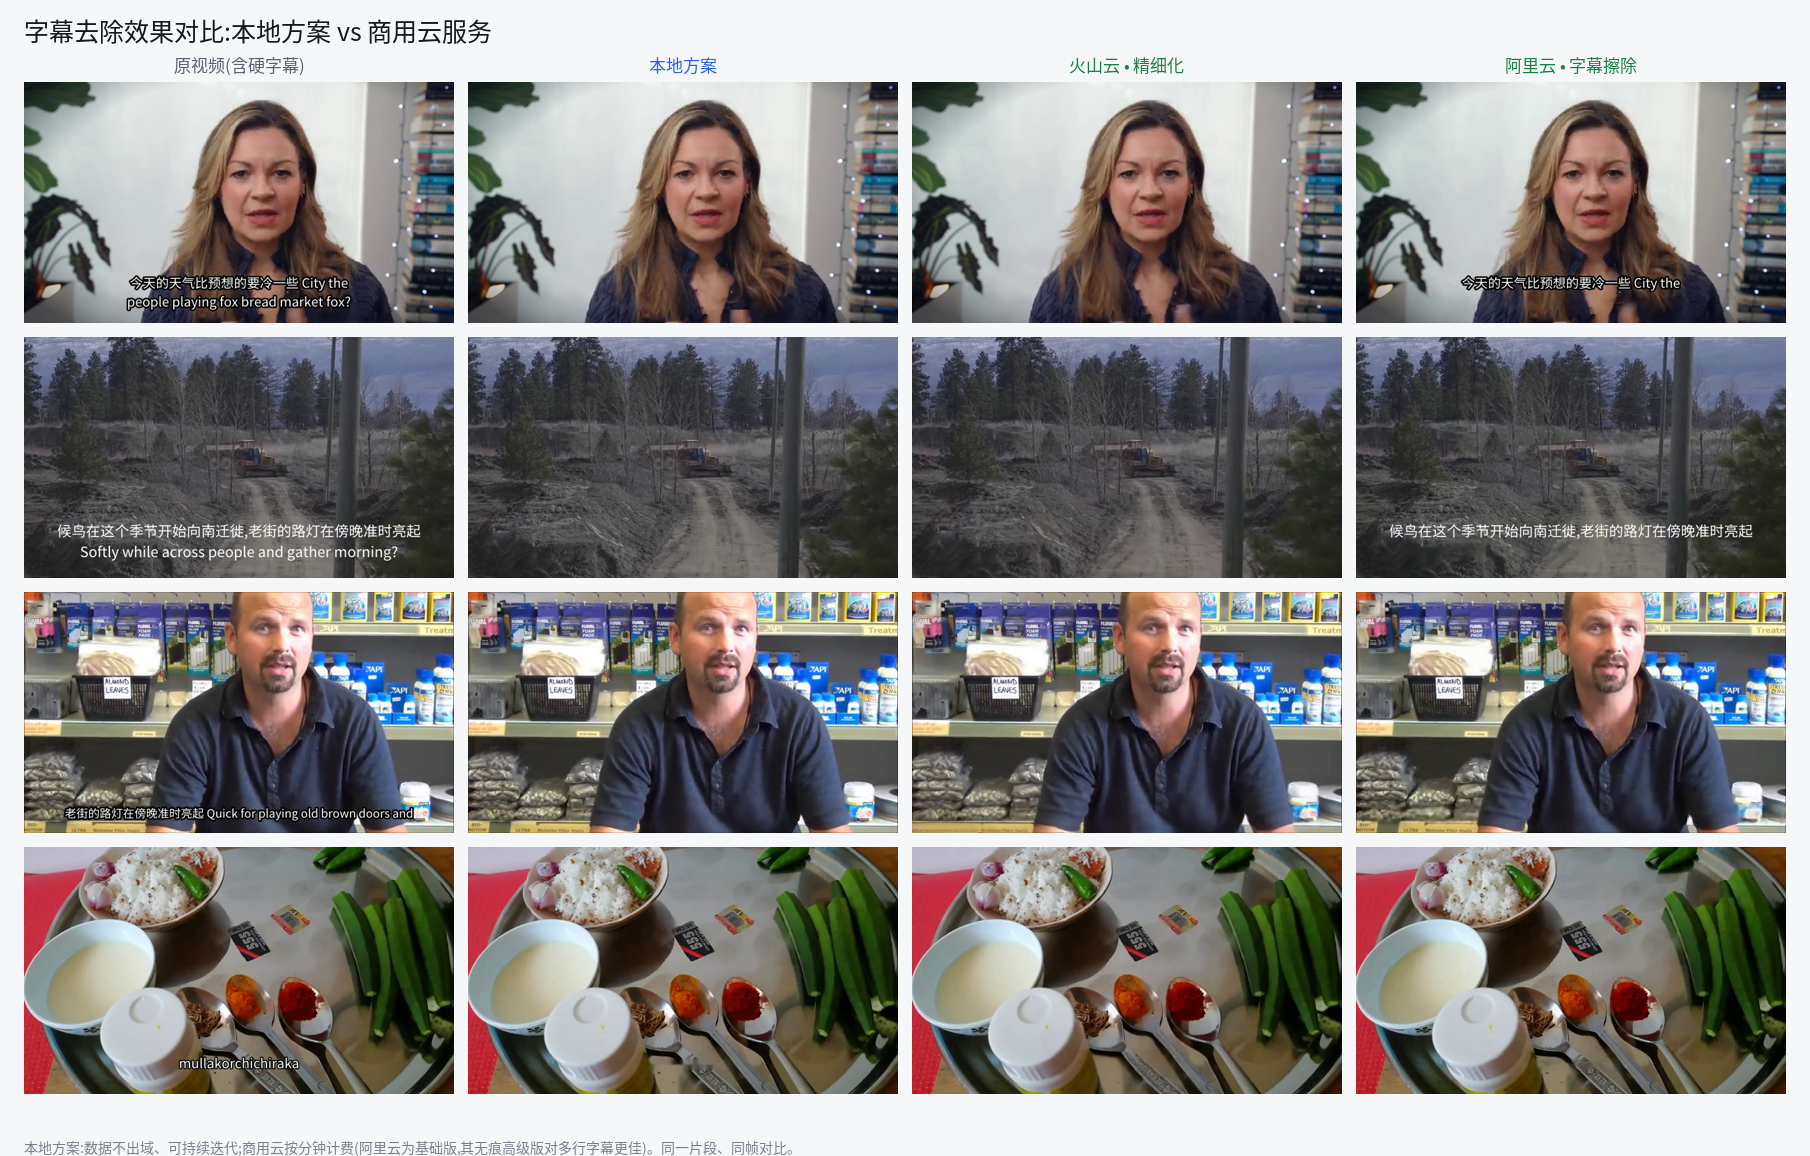
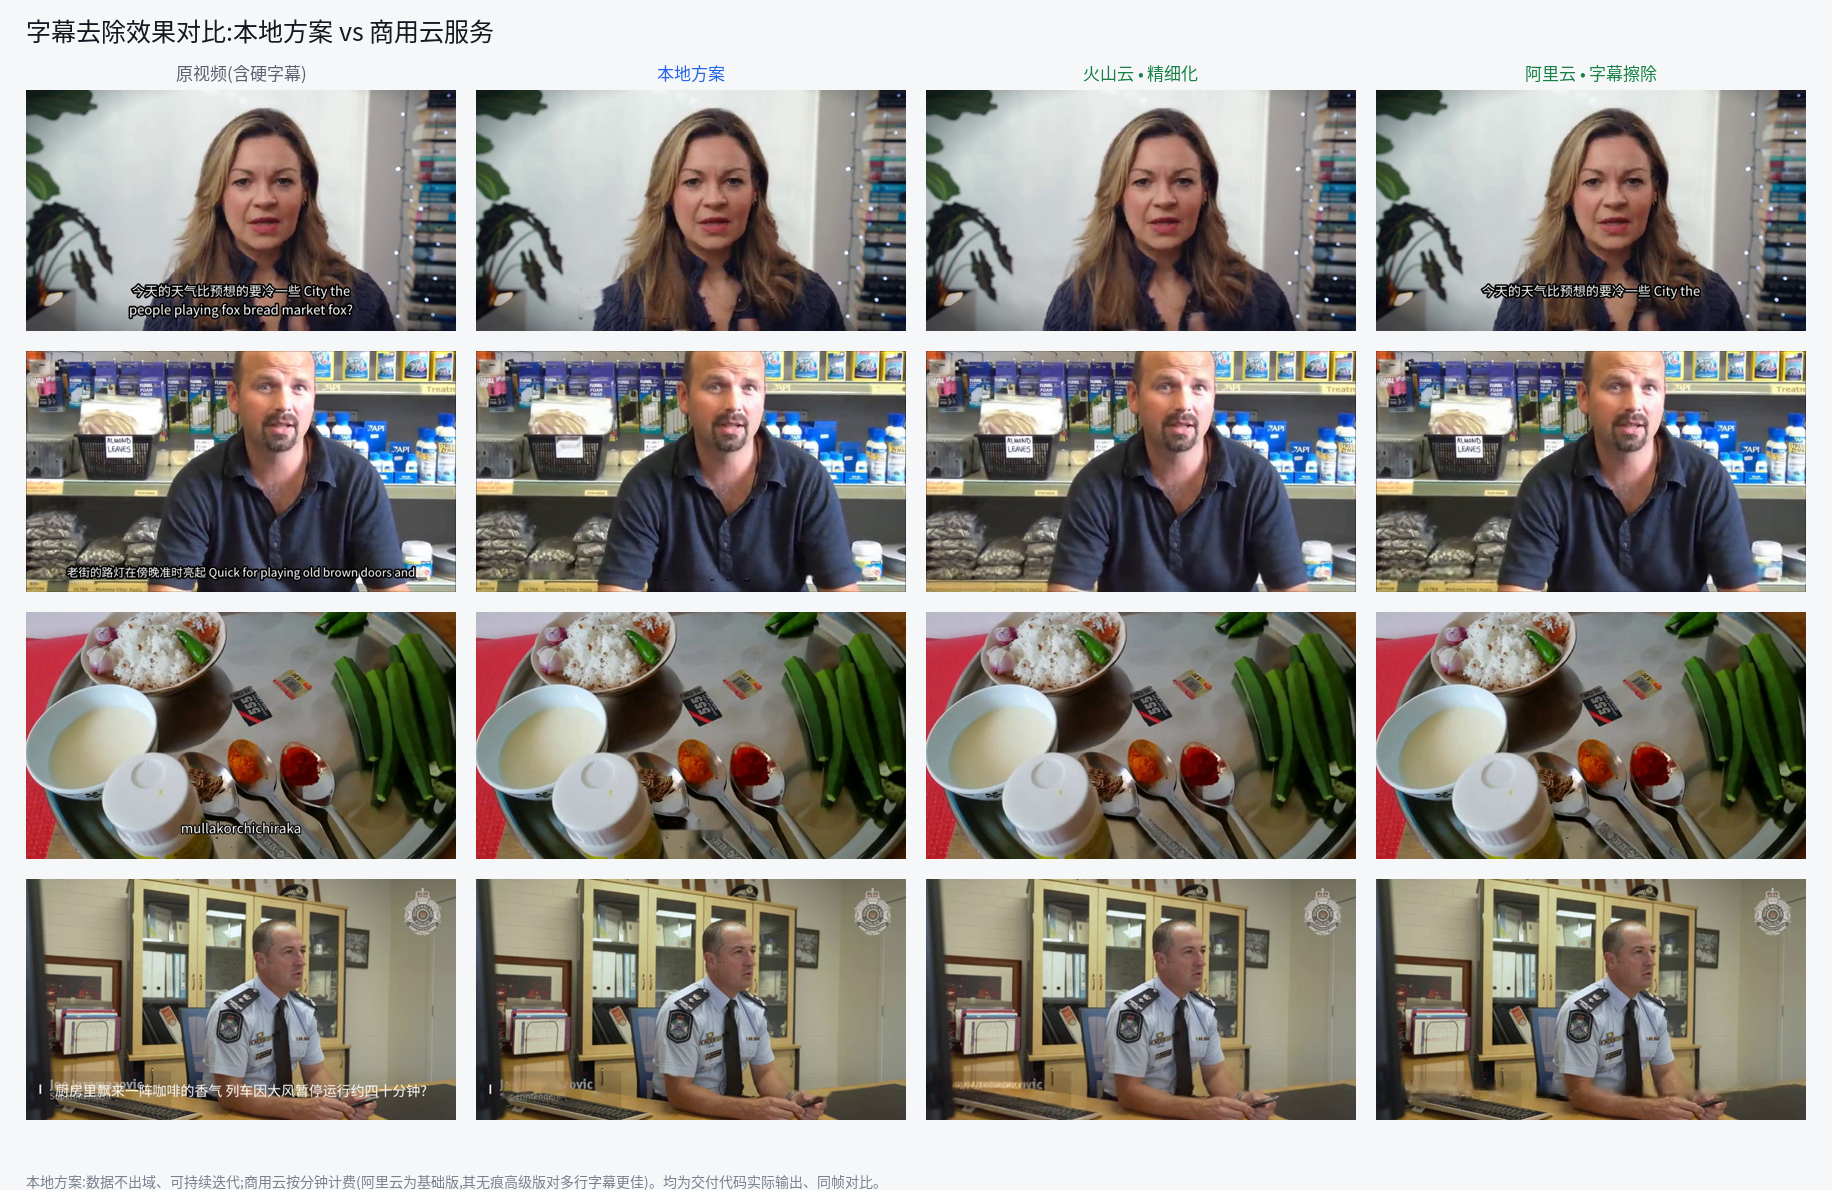
release: 提字幕笔画掩码(实际输出即干净)+ 效果图改用真实端到端输出 + 文档注明 --detector paddle

diff --git a/subtitle_eraser/events.py b/subtitle_eraser/events.py
@@ -113,6 +113,29 @@ def build_mask(roi_shape_hw: tuple[int, int], bbox_in_roi: tuple[int, int, int, 
     return cv2.dilate(mask, kernel)
 
 
+def stroke_mask_in_box(frame_bgr: np.ndarray, bbox: tuple[int, int, int, int],
+                       min_thresh: int = 165, k: int = 9) -> np.ndarray:
+    """在检测框内提取字幕**笔画**掩码(而非整框):框内亮像素阈值 → 闭运算连通 →
+    膨胀盖住描边/抗锯齿。擦除只填笔画邻域,面积远小于整框,避免把框内背景一起糊掉。
+    亮文字(白字/描边字)适用;框内无亮文字时返回空掩码(该帧不改动)。"""
+    h, w = frame_bgr.shape[:2]
+    x1, y1, x2, y2 = bbox
+    x1, y1, x2, y2 = max(0, x1), max(0, y1), min(w, x2), min(h, y2)
+    m = np.zeros((h, w), dtype=np.uint8)
+    if x2 - x1 < 3 or y2 - y1 < 3:
+        return m
+    roi = frame_bgr[y1:y2, x1:x2]
+    g = cv2.cvtColor(roi, cv2.COLOR_BGR2GRAY) if roi.ndim == 3 else roi
+    th = max(min_thresh, int(g.mean() + 0.8 * g.std()))
+    s = (g > th).astype(np.uint8) * 255
+    rect = cv2.getStructuringElement(cv2.MORPH_RECT, (k, k))
+    ell = cv2.getStructuringElement(cv2.MORPH_ELLIPSE, (k, k))
+    s = cv2.morphologyEx(s, cv2.MORPH_CLOSE, rect)
+    s = cv2.dilate(s, ell, iterations=2)
+    m[y1:y2, x1:x2] = s
+    return m
+
+
 def feather_paste(frame: np.ndarray, roi: tuple[int, int, int, int],
                   repaired_roi: np.ndarray, mask_roi: np.ndarray,
                   feather_px: int = 5) -> None:

diff --git a/subtitle_eraser/pipeline.py b/subtitle_eraser/pipeline.py
@@ -17,7 +17,8 @@ import numpy as np
 from . import probe
 from .backends import get_backend
 from .detect import make_detector
-from .events import aggregate, build_mask, expand_bbox, feather_paste
+from .events import (aggregate, build_mask, expand_bbox, feather_paste,
+                     stroke_mask_in_box)
 from .ffmpeg_tools import ffmpeg_bin, run as ffrun
 from .mux import FrameSink
 from .report import Report
@@ -102,7 +103,7 @@ def run(cfg: Config) -> Report:
                        e.bbox[2] - x1, e.bbox[3] - y1)
         mask = build_mask((roi[3] - roi[1], roi[2] - roi[0]), bbox_in_roi)
         ev_ctx.append({"ev": e, "roi": roi, "mask": mask,
-                       "buf": [], "buf_idx": []})
+                       "bbox_in_roi": bbox_in_roi, "buf": [], "buf_idx": []})
 
     covered: dict[int, int] = defaultdict(int)   # 帧号 → 尚未完成修复的事件数
     for c in ev_ctx:
@@ -117,9 +118,13 @@ def run(cfg: Config) -> Report:
     def flush(c: dict) -> None:
         if not c["buf"]:
             return
-        repaired = backend.erase_segment(c["buf"], [c["mask"]] * len(c["buf"]))
-        for fi, patch in zip(c["buf_idx"], repaired):
-            feather_paste(pending[fi], c["roi"], patch, c["mask"])
+        # 逐帧在检测框内提字幕**笔画**掩码(而非整框),擦除只填笔画邻域,避免糊整块;
+        # 某帧框内提不到亮文字则回退整框掩码,保证不漏擦。
+        smasks = [stroke_mask_in_box(f, c["bbox_in_roi"]) for f in c["buf"]]
+        smasks = [sm if int((sm > 127).sum()) >= 20 else c["mask"] for sm in smasks]
+        repaired = backend.erase_segment(c["buf"], smasks)
+        for fi, patch, sm in zip(c["buf_idx"], repaired, smasks):
+            feather_paste(pending[fi], c["roi"], patch, sm)
             covered[fi] -= 1
         c["buf"], c["buf_idx"] = [], []
 

diff --git a/技术手册.md b/技术手册.md
@@ -15,12 +15,17 @@
 ## 2. 快速开始
 
 ```bash
-pip install -r requirements.txt          # 仅需 numpy + opencv
-python -m subtitle_eraser --input in.mp4 --output out.mp4
-# 默认:--detector fixed --region bottom:0.35 --backend flow-copy
+pip install -r requirements.txt              # 骨架:numpy + opencv
+pip install paddlepaddle paddleocr           # 推荐:PP-OCRv5 字幕检测(即上方效果)
+python -m subtitle_eraser --input in.mp4 --output out.mp4 --detector paddle
 ```
 
 运行结束会打印处理模式与字幕事件数,并在输出旁生成 `out.report.json`。
+
+- **`--detector paddle`(推荐)**:PP-OCRv5 精确定位字幕 → 只擦字幕笔画,效果如上方效果图。
+- **`--detector fixed`(默认,零依赖)**:仅 numpy+opencv,把画面底部固定条带当字幕区;对固定底部字幕可用,但较粗(会处理整条带内容)。
+
+> **效果图为交付代码 `--detector paddle` 的实际端到端输出**,非人工掩码,可直接复现。
 
 ## 3. 处理管线(七个步骤)
 
@@ -33,7 +38,7 @@ python -m subtitle_eraser --input in.mp4 --output out.mp4
 | 0 | 软字幕检查 | `ffprobe` 探测容器内是否已有独立字幕流;若是(软字幕),直接剥轨返回,不进视觉管线(**捷径①**,零画质损失) |
 | 1 | 字幕定位 | 以稀疏采样(默认 2fps)定位字幕文本区域。两种检测器:`fixed`(固定区域,如底部 35%)/ `paddle`(PP-OCRv5 文本检测,可选) |
 | 2 | 事件聚合 | 把逐帧检测框按 IoU 关联 + 间隙容忍,聚合为**字幕事件**(同一条字幕从出现到消失的时间区间),得到稳定包围盒与时间轴;孤立误检被丢弃。**无任何事件 → 流复制直接输出(捷径②)** |
-| 3 | 掩码 + ROI | 事件包围盒按字高比例膨胀(覆盖描边 / 抗锯齿边缘)得到掩码;裁出带上下文余量的 ROI 送修复,算力只花在字幕区 |
+| 3 | 掩码 + ROI | 在检测框内**提取字幕笔画掩码**(而非整框:框内亮文字阈值 + 闭运算 + 膨胀覆盖描边),擦除只填笔画邻域、避免糊整块;裁出带上下文余量的 ROI 送修复,算力只花在字幕区 |
 | 4 | 擦除后端 | 在 ROI 上擦除字幕。**可插拔**:当前提供 `flow-copy` 与 `opencv-debug` 两个后端(见 §6) |
 | 5 | 羽化回贴 | 擦除结果以 ≤5px 羽化边缘贴回整帧;**掩码外像素逐像素保持原样** |
 | 6 | 合流编码 | 视频重编码 + 音轨流复制回封装,输出成片 |

diff --git a/README.md b/README.md
@@ -7,6 +7,8 @@
 
 ![字幕去除效果示例](docs/effect_demo.png)
 
+> 以上均为**交付代码的实际端到端输出**(检测用 PP-OCRv5:`--detector paddle`),照下方命令即可复现。
+
 ## 本地方案 vs 商用云服务
 
 ![本地方案与商用云对比](docs/local_vs_cloud.png)
@@ -23,10 +25,13 @@
 
 ```bash
 pip install -r requirements.txt
-python -m subtitle_eraser --input in.mp4 --output out.mp4
+# 推荐:PP-OCRv5 字幕检测(即上方效果),需额外安装:
+pip install paddlepaddle paddleocr
+python -m subtitle_eraser --input in.mp4 --output out.mp4 --detector paddle
 ```
 
-默认 `--detector fixed --region bottom:0.35 --backend flow-copy`。
+- `--detector paddle`:用 PP-OCRv5 精确定位字幕,效果如上方效果图(推荐)。
+- `--detector fixed`(默认):零依赖快速模式(仅 numpy + opencv),对固定底部字幕可用但较粗。
 
 ## 文档
 